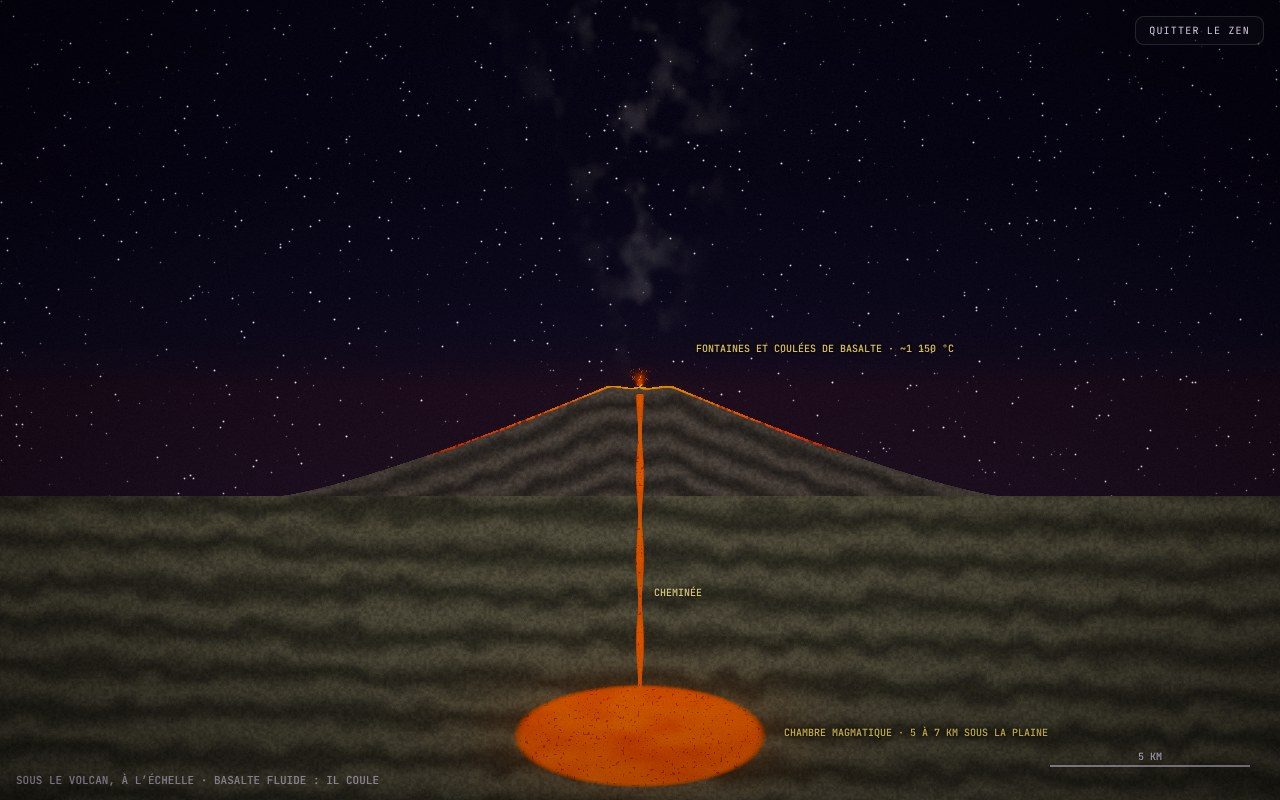
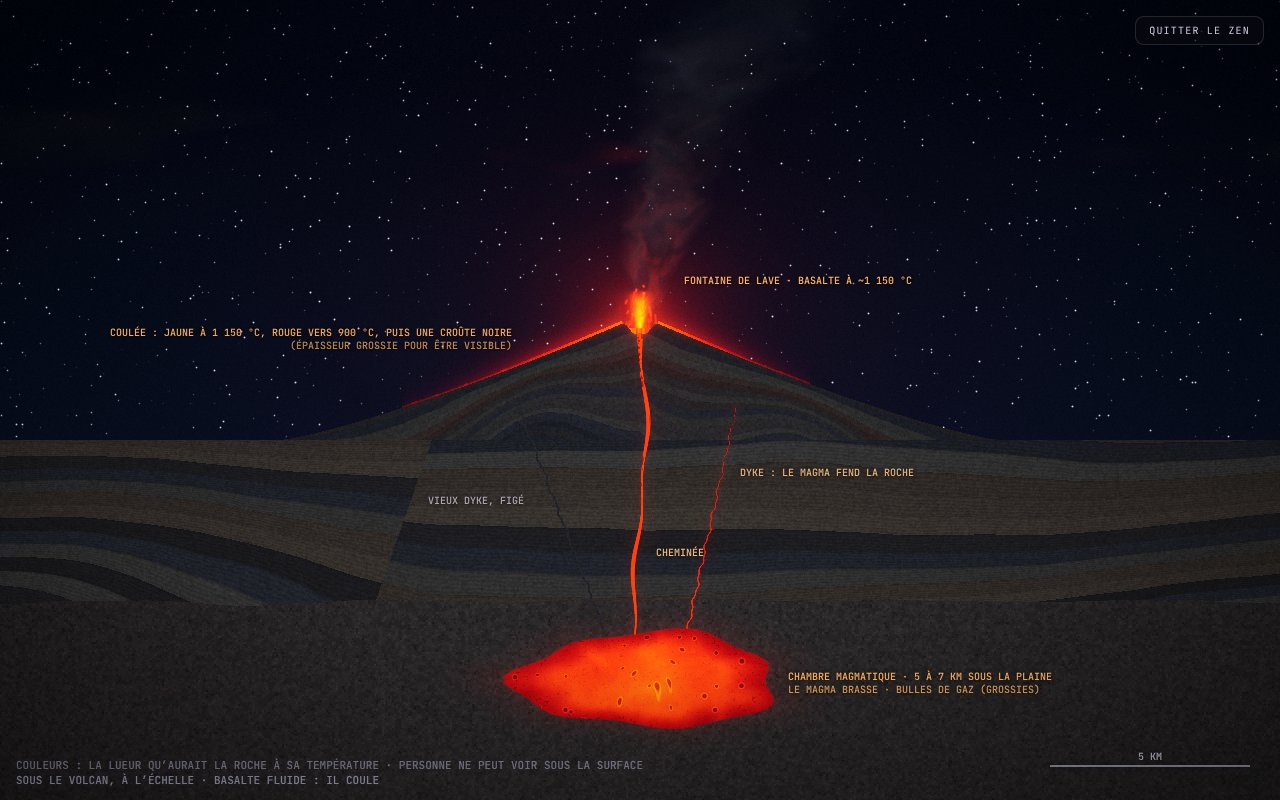
Lave : le volcan refait (chambre qui brasse, dykes, fontaine, coulées qui refroidissent) et corrections de Kurt
Sous le volcan (demande du CEO) : chambre en lentille irrégulière avec
convection et bulles de gaz (grossies), cheminée sinueuse, dyke actif et
vieux dyke figé, couches naturelles et faille, lac de lave, fontaine
d'environ 1 km avec gouttes en arcs, coulées jaune → rouge → croûte noire
(épaisseur grossie, écrit à l'écran), panache éclairé par-dessous, nuages
rougis. Mode visqueux : dôme, fragmentation, nuée au ras du flanc.

Relecture de Kurt : la plaque de cuivre de Bénard ne rougeoie plus,
conventions de couleurs écrites à l'écran (Bénard, coupe de la Terre,
point chaud, volcan), bandeau qui passe à la ligne sur écran étroit,
paragraphe sur les trois sources de magma (dont la subduction).

Claude-Session: https://claude.ai/code/session_01MS9d5JmMjbNw1P1jiRQA2y

diff --git a/app/js/machines/s-lave.js b/app/js/machines/s-lave.js
@@ -324,9 +324,9 @@ void main(){
   vec2 tu = vec2((px.x - uRect.x) / uRect.z, 1. - (px.y - uRect.y) / uRect.w);
   float heat = .4 + 1.8 * uRa;
   vec3 col = vec3(.0035, .004, .0055);
-  // la lumière des deux plaques sur le fond du laboratoire
+  // la lampe du laboratoire, au-dessus : un peu de lumière neutre près de la cuve (à quelques dizaines de degrés, rien ne luit)
   float db = (px.y - (uRect.y + uRect.w)) / uRes.y, dt = ((uRect.y) - px.y) / uRes.y;
-  col += vec3(1., .3, .08) * heat * .025 / (1. + db * db * 60.) + vec3(.3, .55, 1.) * .01 / (1. + dt * dt * 60.);
+  col += vec3(.55, .5, .45) * .006 / (1. + db * db * 60.) + vec3(.5, .52, .55) * .004 / (1. + dt * dt * 60.);
   float pl = uRes.y * .012;
   if (px.x > uRect.x && px.x < uRect.x + uRect.z){
     if (tu.y >= 0. && tu.y <= 1.){
@@ -347,12 +347,13 @@ void main(){
       float e = min(px.x - uRect.x, uRect.x + uRect.z - px.x);
       col += vec3(.5, .55, .6) * .08 * exp(-e * .8);
     } else if (px.y > uRect.y + uRect.w && px.y < uRect.y + uRect.w + pl){
-      // plaque de cuivre chauffée : elle rougeoie d'autant plus que l'écart de température est grand
+      // plaque de cuivre chauffée à quelques dizaines de degrés : couleur cuivre, sans lueur (un métal ne rougeoie que vers 500 °C)
       float k = (px.y - uRect.y - uRect.w) / pl;
-      col = vec3(.55, .2, .08) * (.3 + .7 * (1. - k)) * .25 + vec3(1., .32, .06) * heat * .9 * (1. - k * .6);
+      col = vec3(.955, .638, .538) * (.03 + .05 * (1. - k) + .12 * exp(-pow((k - .22) * 6., 2.)));
     } else if (px.y < uRect.y && px.y > uRect.y - pl){
+      // plaque refroidie (métal, eau froide derrière) : grise, sans lueur
       float k = (uRect.y - px.y) / pl;
-      col = vec3(.35, .5, .7) * (.12 + .2 * (1. - k)) + vec3(.6, .8, 1.) * .15 * (1. - k);
+      col = vec3(.62, .66, .7) * (.025 + .04 * (1. - k) + .1 * exp(-pow((k - .78) * 6., 2.)));
     }
   }
   o = vec4(col, 1.);
@@ -635,20 +636,107 @@ void main(){
   const FS_VOLCAN = () => GL_TERRE() + `
 uniform vec2 uRes; uniform float uKm, uGround, uCx, uT, uVisq, uNuee, uEclair;
 out vec4 o;
-float cone(float x){ float d = abs(x - uCx) * uKm; return max(0., 3.1 * pow(max(1. - d / 9., 0.), 1.25) - .35 * smoothstep(.9, 0., d)); }   // km au-dessus de la plaine (cratère de 900 m)
+// le relief (km au-dessus de la plaine) selon la distance à l'axe (km) : cône de 9 km de rayon, cratère de 900 m
+float relief(float d){ d = abs(d); return max(0., 3.1 * pow(max(1. - d / 9., 0.), 1.25) - .42 * smoothstep(.45, .08, d)); }
+float lisse(float d){ d = abs(d); return 3.1 * pow(max(1. - d / 9., 0.), 1.25); }
+// la cheminée : un chemin irrégulier, du toit de la chambre (vers -4,8 km) au cratère
+float condX(float yk, float top){ return (.16 * sin(yk * .7 + 1.3) + .05 * sin(yk * 2.6 + .4)) * (1. - smoothstep(top - 1.4, top - .1, yk)); }
+float condW(float yk, float top){ return .045 + .018 * sin(yk * 1.7 + .5) + .06 * smoothstep(top - .9, top, yk); }
+// distance (km) d'un point à un segment, et position le long du segment (0 → 1)
+vec2 seg(vec2 p, vec2 a, vec2 b){ vec2 pa = p - a, ba = b - a; float h = clamp(dot(pa, ba) / dot(ba, ba), 0., 1.); return vec2(length(pa - ba * h), h); }
+// une couleur par couche de roche (albédo sous la lune), d'après son numéro
+vec3 couche(float id, float sous){
+  float h = hash12(vec2(id, sous * 7.3 + 1.));
+  vec3 c;
+  if (sous < .5) c = h < .4 ? vec3(.021, .021, .024) : h < .65 ? vec3(.03, .023, .02) : h < .85 ? vec3(.036, .034, .031) : vec3(.027, .025, .024);   // laves, scories, cendres
+  else c = h < .3 ? vec3(.04, .035, .028) : h < .55 ? vec3(.025, .025, .028) : h < .8 ? vec3(.042, .04, .036) : vec3(.023, .021, .021);          // grès, schistes, calcaires, vieilles laves
+  return c * (.85 + .3 * hash12(vec2(id, 4.4)));
+}
+// des bulles (km) dans une grille qui défile vers le haut : (intérieur, liseré)
+vec2 bulles(vec2 p, float cell, float vit, float dens, float rmin, float rmax){
+  vec2 q = vec2(p.x, p.y - uT * vit) / cell, qi = floor(q), qf = fract(q);
+  float b = 0., l = 0.;
+  for (int j = -1; j <= 1; j++) for (int i = -1; i <= 1; i++){
+    vec2 c = qi + vec2(i, j); float h = hash12(c);
+    if (h > dens) continue;
+    vec2 ctr = vec2(i, j) + .5 + .5 * (vec2(hash12(c + 3.1), hash12(c + 5.7)) - .5);
+    ctr.x += .12 * sin(uT * .9 + h * 40.);
+    float r = mix(rmin, rmax, hash12(c + 9.2)) / cell, d = length(qf - ctr);
+    b = max(b, smoothstep(r, r * .7, d));
+    l = max(l, smoothstep(r * .3, 0., abs(d - r * .8)));
+  }
+  return vec2(b, l);
+}
 void main(){
   vec2 px = vec2(gl_FragCoord.x, uRes.y - gl_FragCoord.y);
-  float x = px.x, xk = (x - uCx) * uKm, yk = (uGround - px.y) * uKm;   // km : à droite, et en hauteur au-dessus de la plaine
-  float hs = cone(x), top = cone(uCx);
+  float xk = (px.x - uCx) * uKm, yk = (uGround - px.y) * uKm;   // km : à droite, et en hauteur au-dessus de la plaine
+  float hs = relief(xk), top = relief(0.), visq = uVisq;
+  float Tm = visq > .5 ? 900. : 1150.;
+  float Hf = .9 + .22 * sin(uT * .55) + .1 * sin(uT * 1.37 + 1.);     // hauteur de la fontaine (km), comme à l'Etna : elle pulse lentement
+  float lac = top + .12;                                               // le lac de lave au fond du cratère
+  // les coulées de basalte : 5,5 km à gauche, 3,8 km à droite ; elles refroidissent en descendant
+  float sF = abs(xk) - .45, LF = xk < 0. ? 5.5 : 3.8;
+  float fl = visq > .5 ? 0. : step(0., sF) * step(sF, LF);
+  float uF = clamp(sF / LF, 0., 1.);
+  float TF = 1150. - 430. * pow(uF, .85);
+  float thF = (.075 - .025 * uF) * fl;                                 // épaisseur grossie (×4 environ) pour rester visible
   vec3 col;
-  float visq = uVisq;
   if (yk > hs){
-    // le ciel nocturne, rougi par l'éruption
-    col = mix(vec3(.006, .008, .02), vec3(.002, .003, .01), clamp(yk / 8., 0., 1.)) + vec3(.9, .9, 1.) * etoiles(px) * .3;
-    float hv = yk - top;                                          // km au-dessus du cratère
-    if (visq > .5){
-      // colonne plinienne : des cendres grises qui montent en volutes, éclairées par en dessous
-      // jet de gaz étroit à la base, puis colonne de convection qui s'élargit en volutes (« chou-fleur »)
+    float above = yk - hs, hv = yk - top;
+    // le ciel nocturne
+    col = mix(vec3(.006, .008, .02), vec3(.002, .003, .01), clamp(yk / 9., 0., 1.)) + vec3(.9, .9, 1.) * etoiles(px) * .3;
+    // quelques nuages élevés : sombres au loin, rougis au-dessus du volcan par la lueur de l'éruption
+    float nc = smoothstep(.5, .8, fbm(vec2(xk * .16 + uT * .008, yk * .55))) * exp(-pow((yk - 7.5) / 1.4, 2.));
+    col = mix(col, vec3(.008, .009, .013) + incand(1050.) * (visq > .5 ? .1 : .3) * exp(-abs(xk) / 3.5), nc * .85);
+    if (visq < .5){
+      // la lueur de l'éruption dans l'air : autour de la fontaine, et au ras des coulées
+      float rG = length(vec2(xk, (hv - Hf * .5) * 1.25));
+      col += incand(1060.) * (.3 * exp(-rG / 1.) + .07 * exp(-rG / 3.5)) * (.7 + .35 * Hf);
+      col += incand(TF) * .6 * smoothstep(.25, .75, abs(xk)) * step(sF, LF) * exp(-max(above - thF, 0.) / .22) * (1. - .6 * smoothstep(.3, 1., uF));
+      col += incand(1150.) * .45 * exp(-max(yk - lac, 0.) / .3) * smoothstep(.7, .3, abs(xk));   // le lac de lave éclaire le cratère
+      // le panache de gaz et de vapeur, poussé par le vent, éclairé par-dessous
+      float h = max(hv, 0.), xc = .1 * h + .03 * h * h, w = .2 + .3 * h;
+      if (hv > -.1 && abs(xk - xc) < 1.8 * w){
+        vec2 q = vec2((xk - xc) / w * 1.1, h * .8 - uT * .09);
+        vec2 wq = vec2(fbm(q * 2.1 + uT * .02), fbm(q * 1.6 - 2.));
+        float n = fbm(q * 1.3 + wq * 1.2), nb = fbm(q * 1.3 + vec2(0., .12) + wq * 1.2);
+        float dens = smoothstep(1.15, .3, abs(xk - xc) / w + (.55 - n) * .9) * smoothstep(-.05, .5, hv) * smoothstep(11., 5., h) * (.3 + .7 * n);
+        float lit = clamp(.5 + (n - nb) * 9., 0., 1.);
+        vec3 pl = incand(1080.) * 1.1 * exp(-h / 1.5) * (.35 + .65 * lit) + vec3(.022, .024, .032) * (.5 + .7 * n);
+        col = mix(col, pl, clamp(dens, 0., 1.) * .92);
+      }
+      // la fontaine de lave : un jet qui pulse, et des gouttes en paraboles qui rougissent en refroidissant
+      if (abs(xk) < 1.1 && hv > -.1 && hv < Hf * 1.3 + .1){
+        float jw = .05 + .15 * clamp(hv / Hf, 0., 1.);
+        float jet = exp(-pow(xk / jw, 2.)) * smoothstep(Hf * 1.1, Hf * .6, hv) * smoothstep(-.06, .02, hv);
+        jet *= .7 + .6 * vnoise(vec2(xk * 30., hv * 10. - uT * 6.));
+        col += incand(1160. - 70. * clamp(hv / Hf, 0., 1.)) * jet * 7.;
+        col += incand(1100.) * .7 * exp(-pow(xk / (jw * 3.), 2.)) * smoothstep(Hf * 1.25, 0., hv) * smoothstep(-.06, .05, hv);   // le halo de la fontaine
+        for (int i = 0; i < 64; i++){
+          float fi = float(i), h1 = hash12(vec2(fi, 1.7)), h2 = hash12(vec2(fi, 4.1)), h3 = hash12(vec2(fi, 8.3));
+          float tau = fract(uT * (.32 + .22 * h1) + h2);
+          float D = (h3 - .5) * (.6 + 1.2 * h2 * h2), Hd = Hf * (.35 + .85 * h1);
+          vec2 pp = vec2(D * tau, top + 4. * Hd * tau * (1. - tau));
+          vec2 sv = vec2(D, 4. * Hd * (1. - 2. * tau)) * .055;          // une traînée, comme sur une photo posée
+          float d = seg(vec2(xk, yk), pp - sv, pp).x / uKm;
+          col += incand(1140. - 220. * tau) * 3. * exp(-d * d * 1.1);
+        }
+      }
+      // la coulée, posée sur le flanc : croûte sombre qui fige vers l'aval, fissures incandescentes
+      if (above < thF){
+        float z = above / thF, adv = sF * 9. - uT * .5 * (1. - .7 * uF);
+        float crack = smoothstep(.72, .93, vnoise(vec2(adv, xk < 0. ? 3. : 7.))) * (.4 + .6 * vnoise(vec2(adv * 3., z * 2.)));
+        float crust = smoothstep(.05, .7, uF) * (.35 + .65 * z) * (1. - crack);
+        vec3 lave = incand(TF + 40. * (vnoise(vec2(adv * 2., z)) - .5)) * 3.2;
+        col = mix(lave, vec3(.018, .016, .016) * (.7 + .5 * vnoise(vec2(adv * 4., z * 3.))), clamp(crust, 0., 1.));
+      }
+      // le lac de lave au fond du cratère, couvert de plaques qui dérivent
+      if (yk < lac && abs(xk) < .5){
+        float pl2 = smoothstep(.55, .9, vnoise(vec2(xk * 18. - uT * .2, 2.)));
+        col = incand(1150.) * 3.5 * (1. - .7 * pl2) + vec3(.02) * pl2;
+      }
+    } else {
+      // colonne plinienne : jet de gaz étroit à la base, puis colonne de convection qui s'élargit en volutes (« chou-fleur »)
       float w = hv < .8 ? .12 + hv * .55 : .56 + (hv - .8) * .38;
       float e = fbm(vec2(hv * 1.4 - uT * .35, step(0., xk) * 5.3 + 1.));
       w *= .78 + .5 * e;
@@ -656,62 +744,79 @@ void main(){
       float n = fbm(q * 1.4 + vec2(fbm(q * 2.3 + uT * .15), fbm(q * 1.7 - 3.)) * 1.3);
       float nb = fbm(q * 1.4 + vec2(0., .06) + vec2(fbm(q * 2.3 + uT * .15), fbm(q * 1.7 - 3.)) * 1.3);
       float dens = smoothstep(1.05, .7, abs(xk) / w + (.5 - n) * .35) * smoothstep(-.05, .1, hv);
-      float lit = clamp(.5 + (nb - n) * 12., 0., 1.);                     // le dessous des volutes reçoit la lueur du cratère
+      float lit = clamp(.5 + (nb - n) * 12., 0., 1.);                       // le dessous des volutes reçoit la lueur du cratère
       vec3 cendre = vec3(.075, .07, .066) * (.55 + .7 * n) * (.8 + .3 * lit);
       vec3 lueur = incand(1000.) * (.6 * lit + .15) * exp(-max(hv, 0.) * 1.1);
       col = mix(col, cendre + lueur, clamp(dens, 0., 1.));
       col += incand(1050.) * 2.5 * smoothstep(.12, .0, abs(xk) - hv * .3) * smoothstep(.5, .0, hv) * step(0., hv);   // pyroclastes incandescents du jet
-      // un éclair dans le panache (les cendres s'électrisent en se frottant)
-      if (uEclair > 0.){ float e = exp(-pow(xk * 3. - sin(hv * 9. + uT) * .4 - .2, 2.) * 40.) * smoothstep(1.5, 2.5, hv) * smoothstep(5., 3.5, hv); col += vec3(.7, .75, 1.) * e * uEclair * 2.; }
-    } else {
-      // fontaine de lave : des gouttes incandescentes en paraboles, et un panache de vapeur
-      vec2 c = floor(vec2(xk * 45., hv * 45.)), f = fract(vec2(xk * 45., hv * 45.));
-      float hh = hash12(c + floor(uT * 10.));
-      float env = exp(-pow(xk / (.08 + .35 * max(hv, 0.)), 2.)) * smoothstep(.55, .0, hv) * step(0., hv);
-      float spray = step(.8, hh) * smoothstep(.5, .1, length(f - .5)) * env;
-      col += incand(1120.) * (spray * 6. + env * env * 1.2);                   // gouttes de lave et cœur de la fontaine
-      float st = fbm(vec2(xk * 1.5, hv * 1.2 - uT * .5));
-      col += vec3(.5, .48, .46) * .05 * smoothstep(.4, .8, st) * exp(-pow(xk / (.3 + hv * .25), 2.)) * smoothstep(0., .5, hv) + incand(1100.) * .03 * exp(-max(hv, 0.) * 1.5);
-    }
-  } else {
-    // la roche : couches de laves et de cendres dans l'édifice, sédiments sous la plaine
-    float dd = hs - yk;                                           // km sous la surface
-    float strat = yk > 0. ? sin(dd * 9. + vnoise(px * .05) * 2.) : sin(yk * 6. + xk * .15 + vnoise(px * .04) * 2.5);
-    vec3 roche = (yk > 0. ? vec3(.05, .042, .04) : vec3(.06, .052, .042)) * (.75 + .25 * strat) * (.8 + .4 * vnoise(px * .4));
-    col = roche;
-    // la chambre magmatique, à 5-7 km : du magma chargé de cristaux, qui brasse lentement
-    vec2 ch = vec2(xk / 3.2, (yk + 6.) / 1.3);
-    float rc = length(ch);
-    float Tm = visq > .5 ? 900. : 1150.;
-    float m = smoothstep(1., .9, rc);
-    vec3 mag = incand(Tm + 40. * (vnoise(vec2(ch * 4.) + uT * .1) - .5)) * (.75 + .5 * fbm(ch * 3. + uT * .05)) * 1.6;
-    mag *= 1. - .55 * smoothstep(.82, .9, vnoise(px * .55));            // des cristaux (le magma est une « bouillie » cristalline)
-    // la cheminée : le magma monte ; s'il est gazeux, ses bulles grossissent en montant puis le font éclater en cendres
-    float cw = .09 + .03 * sin(yk * 3.);
-    float cond = smoothstep(cw, cw * .5, abs(xk)) * step(-5., yk) * step(yk, top - .2);
-    if (visq > .5){
-      float bub = smoothstep(.75, .95, vnoise(vec2(xk * 80., yk * 20. - uT * 3.))) * smoothstep(-5., 1., yk);
-      mag = mix(mag, vec3(.02), bub * cond * .8);
-    }
-    col = mix(col, mag, max(m, cond));
-    // la roche autour, chauffée par le magma, rougeoie à peine
-    col += incand(Tm) * .05 * exp(-max(rc - 1., 0.) * 2.5) * (1. - m);
-    // coulées sur le flanc (basalte) ou nuée ardente (magma visqueux)
-    if (dd < .12 && yk > 0.){
-      if (visq < .5){
-        // deux rivières de lave : jaune-orange près du cratère, rouge plus bas, puis une croûte sombre qui fige
-        float sx = abs(xk), side = xk > 0. ? 1. : -1.;
-        float wid = .045 * (.7 + .6 * vnoise(vec2(sx * 3., side)));
-        float rv = smoothstep(wid, wid * .4, dd - .015) * smoothstep(5.5, 4.5, sx);
-        float Tl = 1160. - 62. * sx + 30. * (vnoise(vec2(sx * 8. - uT * .6 * side, side * 3.)) - .5);
-        float croute = smoothstep(.55, .75, vnoise(vec2(sx * 14. - uT * .3, side * 7.))) * smoothstep(800., 950., 1160. - Tl + 800.);
-        col = mix(col, incand(Tl) * 4. * (1. - .8 * croute) + vec3(.012) * croute, rv * step(760., Tl));
-      } else if (uNuee > 0.){
+      // un éclair dans le panache (les cendres s'électrisent en se frottant) : local, jamais plein écran
+      if (uEclair > 0.){ float e2 = exp(-pow(xk * 3. - sin(hv * 9. + uT) * .4 - .2, 2.) * 40.) * smoothstep(1.5, 2.5, hv) * smoothstep(5., 3.5, hv); col += vec3(.7, .75, 1.) * e2 * uEclair * 2.; }
+      // le dôme de lave visqueuse dans le cratère : une croûte sombre fendue de lueurs
+      float dome = top + .3 * (1. - pow(xk / .42, 2.));
+      if (yk < dome && abs(xk) < .42){ float cr = smoothstep(.8, .95, vnoise(vec2(xk * 25., yk * 25.))); col = vec3(.03, .028, .027) * (.7 + .5 * vnoise(px * .7)) + incand(880.) * cr * 1.5; }
+      // nuée ardente : un nuage brûlant de gaz et de cendres qui dévale le flanc
+      if (uNuee > 0. && above < .6){
         float front = uNuee * 9.;
-        float nu = smoothstep(.0, .35, front - abs(xk)) * smoothstep(.6, .0, dd) * smoothstep(.3, .7, fbm(vec2(xk * 2. - uT, dd * 3.)));
-        col = mix(col, vec3(.12, .1, .09) + incand(700.) * .2, nu);
+        float nu = smoothstep(.0, .35, front - abs(xk)) * smoothstep(.6, .0, above) * smoothstep(.3, .7, fbm(vec2(xk * 2. - uT, above * 3.)));
+        col = mix(col, vec3(.07, .06, .055) + incand(720.) * .3, nu);
       }
     }
+  } else {
+    // la roche, coupée : couches de laves et de cendres dans l'édifice, vieilles couches plissées sous la plaine
+    float sous = yk > 0. ? 0. : 1., u;
+    if (yk > 0.) u = (lisse(xk) - yk) / (.16 + .06 * sin(xk * .9 + 1.)) + .9 * fbm(vec2(xk * .9, yk * 1.6));   // coulées et retombées, parallèles aux flancs
+    else u = (-yk + step(xk, -5.2 + .35 * yk) * .9 + .22 * sin(xk * .33 + .6) + .4 * fbm(vec2(xk * .22, yk * .3))) / (.42 + .1 * sin(xk * .17 - yk * .4));   // une faille ancienne décale les couches
+    vec3 roche = couche(floor(u), sous);
+    roche *= .8 + .3 * vnoise(px * .45) + .12 * vnoise(px * 1.7);
+    roche *= .92 + .08 * sin(fract(u) * 38. + vnoise(px * .2) * 3.) * sous;  // laminations fines des sédiments
+    roche *= .7 + .3 * smoothstep(0., .06, fract(u));                        // le contact entre deux couches
+    roche *= vec3(.9, .94, 1.06);                                            // lumière froide de la lune
+    if (yk < -4.2 + .3 * fbm(vec2(xk * .3, 2.))){ float gr = hash12(floor(px * .5)); roche = vec3(.03, .028, .029) * (.75 + .4 * vnoise(px * .3)) + vec3(.008, .005, .004) * step(.9, gr) - vec3(.006) * step(gr, .06); }   // le socle cristallin (granite)
+    col = roche;
+    vec2 pw = vec2(xk + .03 * sin(yk * 9.) + .015 * sin(yk * 23.), yk);
+    // un vieux dyke, figé : une bande de basalte sombre qui recoupe les couches
+    vec2 d2 = seg(pw, vec2(-.8, -5.), vec2(-3.1, 1.));
+    col = mix(col, vec3(.022, .022, .026) * (.8 + .4 * vnoise(px * .9)), smoothstep(.034, .02, d2.x));
+    // la chambre magmatique, à 5-7 km : une lentille irrégulière de magma qui brasse
+    vec2 cq = vec2((xk - .2) / 3.3, (yk + 6.) / 1.2);
+    float ang = atan(cq.y, cq.x);
+    float rc = length(cq) * (1. + .07 * sin(ang * 3. + 1.) + .05 * sin(ang * 7. + 2.));
+    float m = smoothstep(1., .96, rc);
+    if (rc < 1.4){
+      vec2 p = vec2(xk, yk);
+      vec2 wv = vec2(fbm(p * 1.4 + vec2(uT * .04, 0.)), fbm(p * 1.4 + vec2(0., -uT * .05) + 5.));
+      float n = fbm(p * 2.2 + wv * 1.6 + vec2(0., -uT * .08));
+      // convection : le magma chaud monte au centre, au-dessus de la recharge ; refroidi, il redescend le long des parois
+      float plume = exp(-pow((xk - .2 - .25 * sin(yk * 3. - uT * .5)) / .75, 2.)) * smoothstep(1., .1, rc);
+      float Tc = Tm + 150. * (n - .5) + 130. * plume - 260. * smoothstep(.6, 1., rc);
+      vec3 mag = incand(Tc) * 1.7;
+      mag *= 1. - .5 * smoothstep(.8, .95, vnoise(px * .55)) * (.5 + .5 * smoothstep(.6, 1., rc));   // cristaux, plus nombreux près des parois
+      vec2 bb = bulles(p, .3, .07 + .05 * plume, (visq > .5 ? .3 : .14) + .3 * plume, .05, .11);         // bulles de gaz (grossies) qui montent, surtout dans le panache chaud
+      mag = mix(mag, mag * .35, bb.x * m) + incand(Tc + 80.) * bb.y * 1.4 * m;
+      col = mix(col, mag, m);
+      col += incand(Tm - 80.) * .07 * exp(-max(rc - 1., 0.) * 6.) * (1. - m);                      // la roche autour, chauffée (auréole)
+    }
+    // un dyke actif : une lame de magma qui fend la roche depuis le toit de la chambre (elle n'a pas percé)
+    vec2 d1 = seg(pw, vec2(1.15, -4.9), vec2(2.4, .8));
+    float w1 = .024 * (1. - .85 * d1.y * d1.y), k1 = smoothstep(w1, w1 * .4, d1.x) * (1. - m);
+    col = mix(col, incand(Tm - 60. - 160. * d1.y) * 1.8, k1);
+    col += incand(Tm - 120.) * .045 * exp(-d1.x / .12) * (1. - k1) * (1. - m);
+    // la cheminée : le magma monte ; ses bulles grossissent à mesure que la pression baisse
+    float cx = condX(yk, top), cw = condW(yk, top);
+    float cond = smoothstep(cw, cw * .55, abs(xk - cx)) * smoothstep(-5.4, -5., yk) * (1. - m);
+    if (cond > 0.){
+      float g = smoothstep(-5., top, yk);
+      float Tcd = Tm - 30. + 30. * (vnoise(vec2(xk * 40., yk * 5. - uT * 1.2)) - .5);
+      vec3 mc = incand(Tcd) * 1.9;
+      vec2 bb = bulles(vec2(xk - cx, yk), .07, .25 + .5 * g, .25 + .5 * g, .008 + .02 * g, .016 + .03 * g);
+      mc = mix(mc, mc * .3, bb.x) + incand(Tcd) * bb.y;
+      if (visq > .5) mc = mix(mc, vec3(.05, .045, .04) + incand(950.) * bb.y * .6, smoothstep(top - 1.5, top - .9, yk) * .85);   // fragmentation : gaz et cendres
+      col = mix(col, mc, cond);
+    }
+    col += incand(Tm - 50.) * .06 * exp(-abs(xk - cx) / .15) * step(-5., yk) * (1. - cond) * (1. - m);   // la roche chauffée le long de la cheminée
+    // le haut du cône, éclairé par la fontaine
+    float dd = hs - yk;
+    col += incand(1060.) * (visq > .5 ? .06 : .22) * exp(-dd / .05) * exp(-abs(xk) / 1.3);
   }
   o = vec4(col, 1.);
 }`;
@@ -741,6 +846,7 @@ void main(){
       'La simulation résout les équations de Navier-Stokes dans la bouteille, transporte la chaleur, et traite la cire par un champ de phase de Cahn et Hilliard (1958) : une grandeur qui vaut 1 dans la cire et −1 dans le liquide, et qui pousse les deux à se séparer avec une frontière fine. La tension de surface vient de la même équation : elle arrondit les gouttes et fait se pincer les colonnes, comme un filet d’eau qui se casse en perles (instabilité de Plateau-Rayleigh).',
       'En 1900, Henri Bénard chauffe par en dessous une fine couche d’huile de baleine et voit apparaître un réseau d’hexagones. Lord Rayleigh explique en 1916 le seuil d’apparition : le nombre de Rayleigh, qui compare la poussée d’Archimède à la viscosité et à la diffusion de la chaleur, doit dépasser environ 1 708. En dessous, la chaleur passe par conduction ; au-dessus, le liquide s’organise en rouleaux qui tournent alternativement dans un sens et dans l’autre.',
       'La surface du Soleil bout de la même façon : des millions de granules de 1 000 km environ, qui vivent une dizaine de minutes. Le gaz chaud monte au centre, le gaz refroidi redescend dans les couloirs sombres, 300 °C plus froids. Le télescope Daniel K. Inouye, à Hawaï, les a photographiées en 2020 avec des détails de 30 km. Le Soleil vibre aussi, toutes les cinq minutes environ : l’héliosismologie s’en sert pour sonder son intérieur.',
+      'Sous nos pieds, la roche est solide : le magma ne naît qu’à trois endroits. Aux dorsales, le manteau remonte et fond parce que la pression baisse (la décompression). Aux points chauds, un panache plus chaud monte du fond du manteau. Aux subductions, la plaque océanique qui plonge entraîne de l’eau, et cette eau fait fondre le manteau au-dessus d’elle : ce sont les volcans des Andes, du Japon ou de l’Indonésie, souvent explosifs, car leur magma est visqueux et riche en gaz.',
     ],
     tools: [
       { id: 'observer', label: 'observer', desc: 'Touchez la cire ou le liquide : température et sens du mouvement.' },
@@ -883,7 +989,7 @@ void main(){
     }
     function geoVolcan() {
       const v = view(), y0 = (env.view && env.view.y0) || 0;
-      return { km: Math.max(30 / v.w, 7.6 / ((H - y0) * 0.38)), ground: y0 + (H - y0) * 0.62, cx: v.cx };
+      return { km: Math.max(30 / v.w, 7.6 / ((H - y0) * 0.38)), ground: y0 + (H - y0) * 0.55, cx: v.cx };
     }
     function render() {
       const { K, pg } = G, cw = K.canvas.width, ch = K.canvas.height, s = G.s;
@@ -1002,10 +1108,17 @@ void main(){
         put('VOLCAN ACTIF', g.hot - 25, g.sea - 7 * vz, 'rgba(255,190,120,.9)');
       } else if (cfg.scene === 'volcan') {
         const g = geoVolcan(), z = (km) => km / g.km;
-        put('CHAMBRE MAGMATIQUE · 5 À 7 KM SOUS LA PLAINE', g.cx + z(3.6), g.ground + z(6), 'rgba(255,200,120,.9)', 'left');
-        put('CHEMINÉE', g.cx + z(0.35), g.ground + z(2.5), 'rgba(255,214,160,.85)', 'left');
+        put('CHAMBRE MAGMATIQUE · 5 À 7 KM SOUS LA PLAINE', g.cx + z(3.7), g.ground + z(6), 'rgba(255,200,120,.9)', 'left');
+        put('LE MAGMA BRASSE · BULLES DE GAZ (GROSSIES)', g.cx + z(3.7), g.ground + z(6) + 13, 'rgba(255,200,120,.75)', 'left');
+        put('CHEMINÉE', g.cx + z(0.4), g.ground + z(2.9), 'rgba(255,214,160,.85)', 'left');
+        put('DYKE : LE MAGMA FEND LA ROCHE', g.cx + z(2.5), g.ground + z(0.9), 'rgba(255,214,160,.8)', 'left');
+        put('VIEUX DYKE, FIGÉ', g.cx - z(2.9), g.ground + z(1.6), 'rgba(220,214,230,.7)', 'right');
         if (cfg.magma === 'visqueux') { put('COLONNE DE CENDRES', g.cx + z(2.2), g.ground - z(6.5), 'rgba(235,232,255,.8)', 'left'); put('ELLE MONTE À 20-40 KM', g.cx + z(2.2), g.ground - z(6.5) + 13, 'rgba(235,232,255,.8)', 'left'); if (nuee > 0.05) put('NUÉE ARDENTE', g.cx + z(nuee * 8.5), g.ground - z(0.6), 'rgba(255,220,190,.9)'); }
-        else put('FONTAINES ET COULÉES DE BASALTE · ~1 150 °C', g.cx + z(1.4), g.ground - z(3.6), 'rgba(255,200,120,.9)', 'left');
+        else {
+          put('FONTAINE DE LAVE · BASALTE À ~1 150 °C', g.cx + z(1.1), g.ground - z(3.9), 'rgba(255,200,120,.9)', 'left');
+          put('COULÉE : JAUNE À 1 150 °C, ROUGE VERS 900 °C, PUIS UNE CROÛTE NOIRE', g.cx - z(3.2), g.ground - z(2.6), 'rgba(255,200,120,.85)', 'right');
+          put('(ÉPAISSEUR GROSSIE POUR ÊTRE VISIBLE)', g.cx - z(3.2), g.ground - z(2.6) + 13, 'rgba(255,200,120,.65)', 'right');
+        }
         const v = view(), bx = v.x1 - 30 - z(5), by = H - 34;
         ctx.strokeStyle = 'rgba(240,236,255,.7)'; ctx.lineWidth = 1.5; ctx.beginPath(); ctx.moveTo(bx, by); ctx.lineTo(bx + z(5), by); ctx.stroke();
         put('5 KM', bx + z(2.5), by - 6, 'rgba(240,236,255,.75)');
@@ -1022,7 +1135,21 @@ void main(){
       if (cfg.scene === 'terre') s = `LA TERRE EN COUPE, À L’ÉCHELLE · 1 S ≈ ${fr(cfg.geo, cfg.geo < 1 ? 1 : 0)} MILLION${cfg.geo >= 2 ? 'S' : ''} D’ANNÉES · ${Math.round(ma)} MILLIONS D’ANNÉES ÉCOULÉS`;
       if (cfg.scene === 'pointchaud') s = `POINT CHAUD · 1 S ≈ ${Math.round(cfg.hot * 1000).toLocaleString('fr-FR')} 000 ANS · RELIEF EXAGÉRÉ ×25 AU-DESSUS DU FOND MARIN, À L’ÉCHELLE EN DESSOUS`;
       if (cfg.scene === 'volcan') s = 'SOUS LE VOLCAN, À L’ÉCHELLE · ' + (cfg.magma === 'visqueux' ? 'MAGMA VISQUEUX ET GAZEUX : IL EXPLOSE' : 'BASALTE FLUIDE : IL COULE');
-      ctx.fillText(s, v.x0 + 16, H - 16); ctx.restore();
+      // la convention des couleurs, dite à l'écran (règle de Hubble de la DA)
+      let c = '';
+      if (cfg.scene === 'benard') c = cfg.benView ? 'COLORANT FLUORESCENT : IL SUIT L’ÉCOULEMENT' : 'FAUSSES COULEURS : LA TEMPÉRATURE (NOIR = PLUS FROID, JAUNE = PLUS CHAUD)';
+      if (cfg.scene === 'terre') c = 'COULEURS : LA LUEUR QU’AURAIT LA MATIÈRE À SA TEMPÉRATURE · PERSONNE NE PEUT VOIR L’INTÉRIEUR DE LA TERRE';
+      if (cfg.scene === 'pointchaud' || cfg.scene === 'volcan') c = 'COULEURS : LA LUEUR QU’AURAIT LA ROCHE À SA TEMPÉRATURE · PERSONNE NE PEUT VOIR SOUS LA SURFACE';
+      // retour à la ligne aux « · » quand l'écran est étroit (tablette en portrait, téléphone)
+      const lines = [], maxw = v.w - 32;
+      for (const t of [c, s]) {
+        if (!t) continue;
+        let cur = '';
+        for (const part of t.split(' · ')) { const nx = cur ? cur + ' · ' + part : part; if (cur && ctx.measureText(nx).width > maxw) { lines.push(cur); cur = part; } else cur = nx; }
+        lines.push(cur);
+      }
+      lines.forEach((t, i) => { ctx.globalAlpha = t === s || s.includes(t) ? 1 : 0.75; ctx.fillText(t, v.x0 + 16, H - 16 - (lines.length - 1 - i) * 15); });
+      ctx.restore();
     }
     let pending = false;
     function frame(t, dt) {
